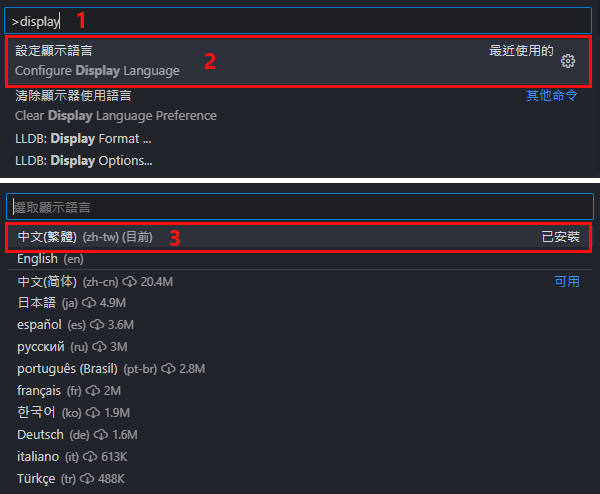
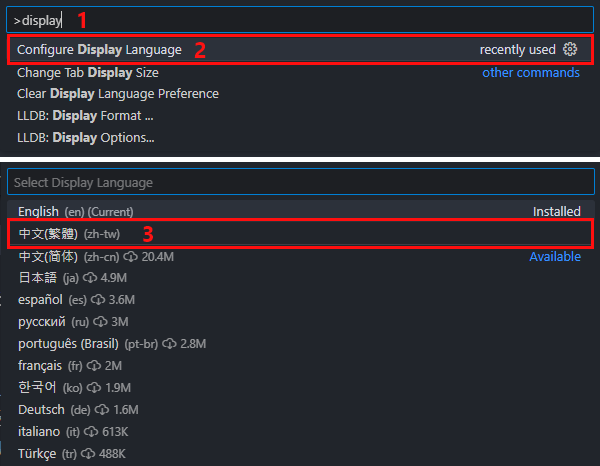
調整部分內容

Changed region(s): [[0.0, 0.0, 1.0, 0.9914]]

diff --git a/Development.md b/Development.md
@@ -2,12 +2,12 @@
 
 | 程式語言 | 環境建置       | 建議版本 | 檢查安裝版本指令 |
 | ------- | -------------  | ----- | ---|
-| C       | 需安裝 [GCC](https://sourceforge.net/projects/mingw/) | 7.3.0 | gcc -v |
-| C++     | 需安裝 [GCC](https://sourceforge.net/projects/mingw/) | 7.3.0 | gcc -v |
-| C#      | 需安裝 [.Net](https://dotnet.microsoft.com/en-us/download) | 6 | dotnet --list-runtimes |
-| Go      | 需安裝 [Go](https://go.dev/) | 1.13.8 | go version |
-| Java    | 需安裝 [JDK](https://www.oracle.com/java/technologies/javase/jdk17-archive-downloads.html) | 17.0.1 | java -version |
-| Python  | 需安裝 [Python](https://www.python.org/downloads/windows/) | 3.8.8 | python -V 或<br /> python --version |
+| C       | 需安裝 [GCC](https://sourceforge.net/projects/mingw/) | gcc 9.4 | gcc -v |
+| C++     | 需安裝 [G++](https://sourceforge.net/projects/mingw/) | g++ 9.4 | gcc -v |
+| C#      | 需安裝 [.Net](https://dotnet.microsoft.com/en-us/download) | .Net 6 | dotnet --list-runtimes |
+| Go      | 需安裝 [Go](https://go.dev/) | go 1.13.8 | go version |
+| Java    | 需安裝 [JDK](https://www.oracle.com/java/technologies/javase/jdk17-archive-downloads.html) | java 17.0.1 | java -version |
+| Python  | 需安裝 [Python](https://www.python.org/downloads/windows/) | python 3.8.8 | python -V 或<br /> python --version |
 
 如在終端機或命令題示字元(cmd)，輸入表格中「檢查安裝版本指令」，有出現相關說明或version版本等訊息，即為安裝成功且可查看安裝版本資訊。
 

diff --git a/README.md b/README.md
@@ -1,6 +1,6 @@
 # CSF-Extension 套件介紹
 
-隨著 TQC+ 各項程式語言認證陸續推出，越來越多人使用 VSCode 這套工具應考，為讓推廣同仁在設定編輯環境更為便利，故製作此 VSCode 擴充套件組合包。
+隨著 TQC+ 各項程式語言認證陸續推出，越來越多人使用 VSCode 這套工具應考，為讓設定編輯環境更為便利，故製作此 VSCode 擴充套件組合包。
 
 請先安裝 VSCode，並於套件功能區輸入「CSF」，就會出現 [CSF Extension](https://marketplace.visualstudio.com/items?itemName=skes4126.CSF-Extension) ，再按下「安裝」按鈕！
 

diff --git a/Vscode.md b/Vscode.md
@@ -9,8 +9,8 @@
 1. 中文介面（【Chinese (Traditional) Language Pack for Visual Studio Code】套件）：
     
     * 按下「Ctrl+Shift+P」，以顯示「命令選擇區」
-    * 輸入「display」以篩選及顯示「設定顯示語言」命令。點擊後會顯示已安裝的語言清單 
-    * 選擇「中文(繁體)」並重新開啟VSCode，即完成中文介面設定！
+    * 輸入「display」以篩選「Display Language」命令。點擊後會顯示已安裝的語言清單 
+    * 選擇「中文(繁體)」並重新開啟 VSCode ，即完成中文介面設定！
 
     ![language](<image/language.png>)
 

diff --git a/SUMMARY.md b/SUMMARY.md
@@ -1,6 +1,6 @@
 # Table of contents
 
-* [CSF-Extension 套件介紹](README.md)
 * [各語言開發環境](Development.md)
 * [各語言推薦編輯器](Editor.md)
+* [CSF-Extension 套件介紹](README.md)
 * [VSCode 套件安裝與執行方法](Vscode.md)
